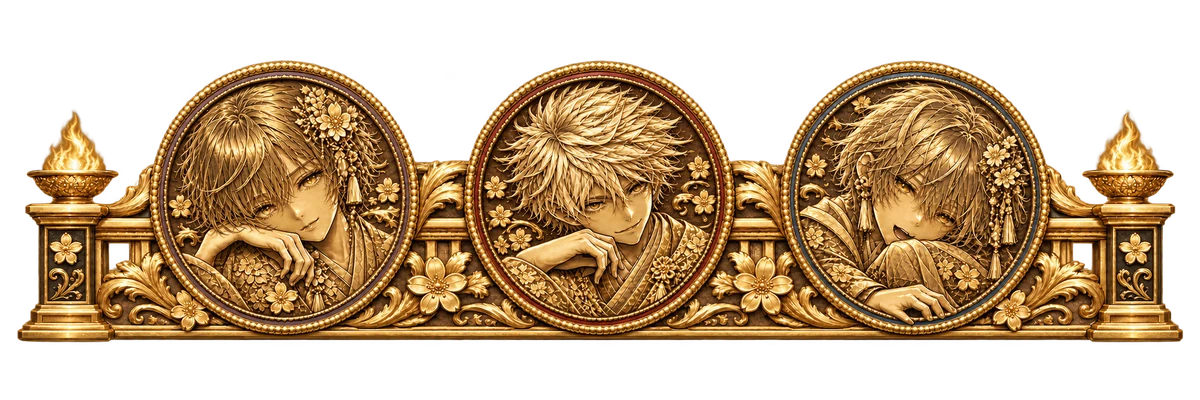
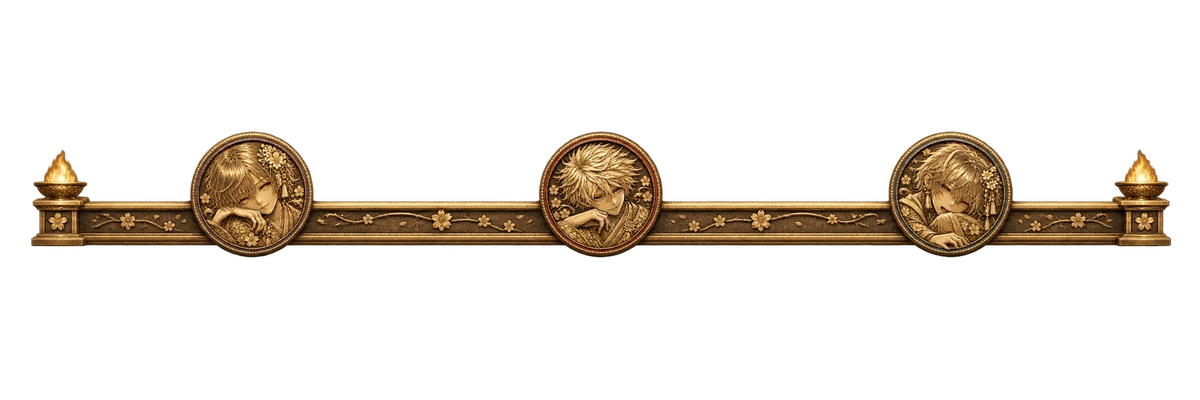
軌跡の筐体を黒金へ揃え三神とリールを一体化

diff --git a/src/web/public/kiseki-trial.css b/src/web/public/kiseki-trial.css
@@ -11,23 +11,72 @@
 
 /* 軌跡だけの風景と、液晶下端の金の肖像メダル。背景の選択は公開済みG数だけ。 */
 .kt-root .gt-display{aspect-ratio:1/1.04}
-.kt-machine:not([data-landscape=special]) .gt-landscape{height:79%;object-position:center;filter:none;opacity:1}
+.kt-machine:not([data-landscape=special]) .gt-landscape{height:100%;object-position:center;filter:none;opacity:1}
 .kt-machine:not([data-landscape=special]) .gt-scene-depth{opacity:0}
 .kt-machine:not([data-landscape=special]) .gt-scene-light{background:linear-gradient(#06162642,transparent 20% 65%,#07131e22),linear-gradient(90deg,#07131e25,transparent 18% 82%,#07131e25)}
 .kt-root .gt-display .gt-lcd{justify-content:space-between;padding:32px 12px 4px}
 .kt-root .gt-display .gt-screen-mode{align-self:flex-start;max-width:100%;font-size:clamp(10px,2.5vw,16px);letter-spacing:2px;padding:2px 8px;border-left:2px solid #ffe7a0;color:#fff4d3;text-shadow:0 2px 2px #183137,0 0 6px #102731}
 .kt-root .gt-display .gt-digits{gap:clamp(12px,4vw,34px);margin:0;min-height:0}
 .kt-root .gt-display .gt-digits>span{font-family:Georgia,'Times New Roman',serif;font-weight:900;font-style:italic;font-size:clamp(58px,16vw,118px);color:#ffe89c;-webkit-text-stroke:1px #9f5a1d;text-shadow:0 -1px 0 #fff6cc,0 2px 0 #f5b749,0 4px 0 #8e4b14,0 6px 0 #4e2b19,2px 8px 5px #122027c9}
-.kt-root .gt-display .gt-message{padding:3px 10px;border-radius:3px;background:#07131e8c;color:#fff9e8;text-shadow:0 1px 2px #000;font-size:clamp(8px,1.8vw,11px)}
-.kt-altar{position:relative;isolation:isolate;flex:0 0 auto;aspect-ratio:4/1;width:100%;overflow:hidden;z-index:2;pointer-events:none}
+.kt-root .gt-display .gt-message{padding:3px 10px;border-radius:0;background:none;color:#fff9e8;text-shadow:0 1px 3px #07131e,0 0 4px #07131e;font-size:clamp(8px,1.8vw,11px)}
+.kt-reel-assembly{position:relative;isolation:isolate;flex:0 0 auto;width:94%;align-self:center;margin:0 auto 2%}
+.kt-reel-assembly:before{content:'';position:absolute;inset:35% 4% 0;z-index:-1;pointer-events:none;background:linear-gradient(90deg,#3b2816,#cfb16d 38%,#f3dea1 50%,#65502c) left/9px 100% no-repeat,linear-gradient(90deg,#65502c,#f3dea1 50%,#cfb16d 62%,#3b2816) right/9px 100% no-repeat,linear-gradient(#f4df9e,#9e7c40 30%,#342919 65%,#b4924b) bottom/100% 10px no-repeat;border-bottom:2px solid #3a2c19}
+.kt-altar{position:relative;isolation:isolate;aspect-ratio:5.6/1;width:100%;margin-bottom:-4%;overflow:visible;z-index:3;pointer-events:none}
 .kt-altar-art{position:absolute;width:100%;height:auto;left:0;top:50%;transform:translateY(-50%);pointer-events:none}
-.kt-root .gt-display .kt-medallion-navigation{position:absolute;inset:0 10%;width:80%;height:100%;min-height:0;max-height:none;margin:0;gap:0;z-index:1}
+.kt-root .gt-display .kt-medallion-navigation{position:absolute;inset:0 5%;width:90%;height:100%;min-height:0;max-height:none;margin:0;gap:0;z-index:1}
 .kt-root .gt-display .kt-medallion-navigation .gt-lcd-cue{justify-content:center;gap:0}
-.kt-root .gt-display .kt-medallion-navigation .gt-lcd-cue:after{content:'';position:absolute;inset:18% 3%;border-radius:50%;background:radial-gradient(ellipse,#51310ad6,transparent 72%);z-index:-1}
-.kt-root .gt-display .kt-medallion-navigation .gt-lcd-cue b{font-size:clamp(30px,9vw,68px);letter-spacing:-2px;line-height:1;color:#fff2a9;-webkit-text-stroke:1px #714010;opacity:.9;text-shadow:0 2px 0 #a15e13,0 4px 0 #3c250d,0 0 6px #000}
+.kt-root .gt-display .kt-medallion-navigation .gt-lcd-cue:after{content:'';position:absolute;inset:12% 31%;border-radius:50%;background:radial-gradient(ellipse,#51310ad6,transparent 72%);z-index:-1}
+.kt-root .gt-display .kt-medallion-navigation .gt-lcd-cue b{font-size:clamp(26px,7.5vw,52px);letter-spacing:-2px;line-height:1;color:#fff2a9;-webkit-text-stroke:1px #714010;opacity:.9;text-shadow:0 2px 0 #a15e13,0 4px 0 #3c250d,0 0 6px #000}
 .kt-root .gt-display .kt-medallion-navigation .gt-lcd-cue small{font-size:clamp(6px,1.5vw,9px);line-height:1;min-height:7px;letter-spacing:2px;margin:1px 0 0}
 .kt-root .gt-display .kt-medallion-navigation .gt-lcd-cue.is-next b{color:#fff9de;opacity:1;text-shadow:0 2px 0 #ad6b22,0 4px 0 #3c250d,0 0 12px #fff4a8}
 .kt-root .gt-display .kt-medallion-navigation .gt-lcd-cue.is-stopped b,.kt-root .gt-display .kt-medallion-navigation .gt-lcd-cue.is-stopped small,.kt-root .gt-display .kt-medallion-navigation .gt-lcd-cue.is-stopped:after{opacity:0}
-.kt-root .gt-display .gt-reel-shelf{padding-bottom:4%}
+.kt-root .gt-display .kt-reel-assembly .gt-reel-shelf{padding:0 0 10px;z-index:2}
+.kt-root .gt-display .kt-reel-assembly .gt-reel-deck{--symbol-h:clamp(24px,8vw,50px);width:88%;max-width:none;padding:5px 6px 6px;border-radius:0;border:1px solid #b99a58;background:linear-gradient(120deg,#e1c487,#765b2c 15%,#3c301e 35%,#d9bb76 52%,#63502f 82%,#d6b36e);box-shadow:inset 0 1px 0 #ffedbd,0 1px 0 #312414,0 4px 5px #12201b88}
+.kt-root .gt-display .kt-reel-assembly .gt-symbol{background:linear-gradient(90deg,#99855e,#e8d7ad 9%,#fff7db 30% 65%,#d7c291 90%,#927b50)}
+.kt-root .gt-display .kt-reel-assembly .gt-reels{border-color:#5f4b2c;background:#251e14}
+.kt-root .gt-display .kt-reel-assembly .gt-reel-glass{background:linear-gradient(#33231170,transparent 30%,#fff7df14 48%,transparent 68%,#271d1266);box-shadow:inset 0 18px 17px -12px #211d16e0,inset 0 -18px 17px -12px #211d16e0}
+.kt-root .gt-display .kt-medallion-navigation .gt-lcd-cue i{width:62%;height:95%}
+.kt-root .gt-display .kt-medallion-navigation .gt-lcd-cue.is-next:before{inset:12% 20%}
 @media(max-width:620px){.kt-root .gt-display .gt-lcd{padding:27px 7px 3px}.kt-root .gt-display .gt-screen-mode{letter-spacing:1px;padding:1px 5px}.kt-root .gt-display .gt-message{padding:2px 6px}.kt-root .gt-display .gt-digits>span{font-size:clamp(52px,17vw,90px)}}
-@media(max-height:500px) and (min-width:600px){.kt-root[data-focus=true] .gt-display .gt-lcd{padding:23px 5px 0}.kt-root[data-focus=true] .gt-display .gt-digits>span{font-size:40px}.kt-root[data-focus=true] .kt-altar{aspect-ratio:4/1;width:min(100%,224px);height:56px;align-self:center}.kt-root[data-focus=true] .gt-display .kt-medallion-navigation{min-height:0;max-height:none;height:100%}.kt-root[data-focus=true] .gt-display .kt-medallion-navigation .gt-lcd-cue b{font-size:34px}}
+@media(max-height:500px) and (min-width:600px){.kt-root[data-focus=true] .gt-display .gt-lcd{padding:23px 5px 0}.kt-root[data-focus=true] .gt-display .gt-digits>span{font-size:40px}.kt-root[data-focus=true] .kt-reel-assembly{width:min(96%,330px);margin-bottom:2px}.kt-root[data-focus=true] .kt-altar{aspect-ratio:5.6/1;width:100%;height:auto;align-self:auto}.kt-root[data-focus=true] .gt-display .kt-reel-assembly .gt-reel-deck{--symbol-h:16px}.kt-root[data-focus=true] .gt-display .kt-reel-assembly .gt-reel-shelf{padding-bottom:6px}.kt-root[data-focus=true] .gt-display .kt-medallion-navigation{min-height:0;max-height:none;height:100%}.kt-root[data-focus=true] .gt-display .kt-medallion-navigation .gt-lcd-cue b{font-size:34px}}
+
+.kt-root .gt-display .kt-medallion-navigation .gt-lcd-cue small{display:none}
+
+/* 腰パネルも軌跡だけ、凱旋風の黒・深い赤・金の印刷ガラスへ。 */
+.kt-root .gt-apron,.kt-root[data-focus=true] .gt-apron{height:180px;border-width:5px;border-color:#242127;border-top-color:#a58a52;border-bottom-color:#08090d;border-radius:3px 3px 8px 8px;background:#16090d;box-shadow:0 0 0 1px #796039,inset 0 0 18px #000}
+.kt-root .gt-apron img{opacity:1;object-position:center}
+.kt-root .gt-apron:before{background:linear-gradient(112deg,#fff0dc0c,transparent 30% 73%,#fff2ca0d 73.4%,transparent 75%),linear-gradient(90deg,#08090b55,transparent 25% 75%,#08090b55);box-shadow:inset 0 0 18px #020306,inset 0 1px 1px #ffe7b74d}
+.kt-root .gt-apron:after{inset:4px;border-color:#ddbd715e;box-shadow:inset 0 0 6px #4d280c}
+.kt-root .gt-apron>div{gap:3px;padding:7px 0}
+.kt-root .gt-apron small{color:#e5c990;font-size:8px;letter-spacing:4px}
+.kt-root .gt-apron strong{font-size:clamp(72px,18vw,130px);line-height:.9;letter-spacing:-5px;-webkit-text-stroke:.7px #7e5018;color:#f2ca65;background:linear-gradient(#fff3c7 5%,#a86a20 26%,#fff1b1 44%,#e2a839 51%,#fff1b2 67%,#9b5c19 93%);background-clip:text;-webkit-background-clip:text;-webkit-text-fill-color:transparent;text-shadow:0 3px 0 #804b17,0 5px 0 #3b2010,0 7px 8px #0009;transform:skewX(-4deg)}
+.kt-root .gt-apron span{font-size:10px;color:#ecd6a0;letter-spacing:7px}
+.kt-root .gt-medal-tray{border-top-color:#9e8752;border-bottom-color:#090a0e;background:radial-gradient(circle,#6f654c 0 .65px,transparent .95px) 0 0/4px 4px,linear-gradient(#151518,#06080d 45%,#26262a);box-shadow:inset 0 5px 8px #000,0 1px 0 #6f6142}
+@media(max-width:620px){.kt-root .gt-apron,.kt-root[data-focus=true] .gt-apron{height:115px}.kt-root .gt-apron>div{gap:1px;padding:5px 0}.kt-root .gt-apron small{font-size:6px;letter-spacing:2px}.kt-root .gt-apron span{font-size:8px;letter-spacing:5px}}
+@media(max-height:500px) and (min-width:600px){.kt-root[data-focus=true] .gt-apron,.kt-root[data-focus=true] .gt-medal-tray{display:none}}
+
+/* 軌跡の外装。銘板・スピーカー・操作台・腰パネルを一続きの黒金フレームへ。 */
+.kt-root .kt-machine{padding:14px 18px 12px;border-radius:32px 32px 18px 18px;border-color:#c4a757;background:linear-gradient(90deg,#705925,#f7dc83 .7%,#9f8040 1.1%,#14171b 1.5%,#05070b 3%,#414044 3.8%,#090b10 5% 95%,#414044 96.2%,#05070b 97%,#14171b 98.5%,#9f8040 98.9%,#f7dc83 99.3%,#705925);box-shadow:0 0 0 2px #08090d,0 5px 0 #29272a,0 14px 30px #000b,inset 0 1px 1px #fff1bb}
+.kt-root .gt-cabinet-rails{inset:14px 6px 44px}.kt-root .gt-cabinet-rails i{width:4px;border-color:#b69a4c;background:linear-gradient(90deg,#48351c,#f8dd8e 40%,#fff4bf 52%,#88672e);box-shadow:inset 0 0 1px #fff5}
+.kt-root .gt-marquee{min-height:82px;padding:8px 80px 7px;margin-bottom:9px;border-radius:22px 22px 5px 5px;border-color:#39362f;border-top-color:#f6d889;background:linear-gradient(#60563b 0%,#d0b166 3%,#222328 6%,#080a0e 23% 90%,#302f32);box-shadow:inset 0 1px 0 #fff6c4,0 2px 0 #06070b;gap:3px;align-content:center}
+.kt-root .gt-marquee>span:not(.gt-speaker){font-size:6px;letter-spacing:3px;color:#d4be82;position:relative;z-index:2}
+.kt-root .gt-marquee .kt-cabinet-title{position:relative;isolation:isolate;display:flex;flex-direction:column;align-items:center;justify-content:center;justify-self:center;width:170px;padding:1px 0 2px;font:900 25px/.9 Georgia,serif;letter-spacing:0;color:#ffe5a4;text-shadow:0 1px 0 #b57820,0 2px 0 #573414,-1px 0 0 #fff1bd}
+.kt-cabinet-title:before,.kt-cabinet-title:after{content:'';position:absolute;z-index:-1;clip-path:polygon(0 0,100% 0,85% 100%,15% 100%)}
+.kt-cabinet-title:before{inset:-4px -19px -5px;background:linear-gradient(125deg,#f5dd99,#9c7033 30%,#ffeab2 52%,#69471e 80%,#d5b66e)}
+.kt-cabinet-title:after{inset:-2px -16px -3px;background:linear-gradient(110deg,#1c0b0b,#6f1519 35%,#9c2225 50%,#3c0c10 80%,#110a0e);box-shadow:inset 0 2px 8px #000}
+.kt-root .gt-marquee .kt-cabinet-title>span{display:block;font:inherit;color:inherit;letter-spacing:0}
+.kt-root .gt-marquee small{position:relative;z-index:2;font-size:7px;letter-spacing:1px;color:#c9bda1}
+.kt-root .gt-marquee .gt-speaker{top:21px;bottom:17px;width:24%;max-width:148px;border:2px solid #4d4434;border-top-color:#b3a17c;border-bottom-color:#12141a;border-radius:10px;background:radial-gradient(ellipse,#05070b 0 4px,#a68d56 4.6px 5.2px,#24242a 5.7px) 0 0/16px 12px,linear-gradient(#4b4741,#101116);box-shadow:inset 0 2px 5px #000,0 1px 0 #9b885b}
+.kt-root .gt-speaker-left{left:10px;transform:skewX(-12deg)}.kt-root .gt-speaker-right{right:10px;transform:skewX(12deg)}
+.kt-root .gt-console{position:relative;overflow:visible;margin:2px -9px 9px;padding:8px 0 11px;border:1px solid #504a3d;border-top:3px solid #aaa28a;border-bottom:8px solid #ac8745;border-radius:8px 8px 32px 32px;background:linear-gradient(175deg,#686866,#20232a 10%,#0a0d12 39%,#24282e 70%,#0a0d13);box-shadow:inset 0 1px 0 #f1e7cd,0 5px 0 #06080d,0 6px 0 #6e5c39}
+.kt-console-grip{position:absolute;z-index:2;top:15px;width:16%;height:34px;border:1px solid #3e3e41;border-top-color:#bdb8a9;border-bottom:6px solid #0a0c11;border-radius:10px 20px 16px 12px;background:linear-gradient(#787974,#2b3035 20%,#090d13 47% 76%,#343940 90%,#11141b);box-shadow:0 3px 4px #0009;pointer-events:none}
+.kt-console-grip-left{left:-7px;transform:skewY(5deg)}.kt-console-grip-right{right:-7px;transform:skewY(-5deg)}
+.kt-root .gt-console .gt-play{max-width:420px;grid-template-columns:65px 1fr;gap:13px;min-height:78px;padding:0 5px}
+.kt-root .gt-console .gt-stop-row{align-items:center;padding:7px 12px;border:1px solid #777264;border-top-color:#292e33;border-radius:999px;background:linear-gradient(125deg,#12161c,#3e454a 47%,#12161c);box-shadow:inset 0 2px 4px #000,0 1px 0 #d3c1a080}
+.kt-root .gt-console .gt-stop{width:56px;max-width:56px;min-height:48px;color:#f8dfd2}.kt-root .gt-console .gt-instruments{margin-top:5px;max-width:380px}
+.kt-root .gt-apron strong{font-size:clamp(104px,31vw,216px);line-height:.62;letter-spacing:-6px;-webkit-text-stroke:.7px #f9e3a1;text-shadow:none;filter:drop-shadow(0 2px 0 #ad6e20) drop-shadow(0 4px 0 #48250b) drop-shadow(0 6px 4px #000b);transform:scaleY(.82) skewX(-4deg)}
+.kt-root .gt-medal-tray{height:38px;border-radius:3px 3px 14px 14px}
+@media(max-width:620px){.kt-root .kt-machine{padding:10px 12px 9px;border-radius:24px 24px 15px 15px}.kt-root .gt-marquee{min-height:67px;padding:7px 49px 6px;margin-bottom:7px;border-radius:16px 16px 4px 4px;gap:2px}.kt-root .gt-marquee .kt-cabinet-title{width:115px;font-size:20px}.kt-cabinet-title:before{inset:-3px -13px -4px}.kt-cabinet-title:after{inset:-1px -10px -2px}.kt-root .gt-marquee>span:not(.gt-speaker){font-size:5px;letter-spacing:1.5px}.kt-root .gt-marquee small{font-size:6px;letter-spacing:0}.kt-root .gt-marquee .gt-speaker{top:19px;bottom:16px;width:22%;border-width:1px;background-size:12px 9px,auto}.kt-root .gt-speaker-left{left:5px}.kt-root .gt-speaker-right{right:5px}.kt-root .gt-console{margin:2px -6px 7px;padding:6px 0 8px;border-bottom-width:6px;border-radius:6px 6px 23px 23px}.kt-console-grip{top:14px;width:12%;height:25px;border-bottom-width:5px}.kt-console-grip-left{left:-5px}.kt-console-grip-right{right:-5px}.kt-root .gt-console .gt-play{max-width:calc(100% - 38px);grid-template-columns:44px 1fr;gap:6px;min-height:64px}.kt-root .gt-console .gt-stop-row{padding:5px 4px}.kt-root .gt-console .gt-stop{width:44px;max-width:44px;min-height:44px;font-size:8px}.kt-root .gt-console .gt-instruments{max-width:260px;margin-top:3px}.kt-root .gt-medal-tray{height:29px}}
+@media(max-height:500px) and (min-width:600px){.kt-root[data-focus=true] .gt-console{margin:4px -6px;padding:2px 8px 3px;border-bottom-width:3px}.kt-root[data-focus=true] .gt-console .gt-play{min-height:58px;max-width:300px;grid-template-columns:48px 1fr;gap:7px}.kt-root[data-focus=true] .kt-console-grip{display:none}.kt-root[data-focus=true] .gt-console .gt-stop-row{padding:3px 5px}.kt-root[data-focus=true] .gt-console .gt-stop{width:44px;max-width:44px;min-height:44px}.kt-root[data-focus=true] .gt-console .gt-instruments{margin-top:2px}}
+
+.kt-root .gt-marquee .kt-cabinet-title>span{position:relative;z-index:1}.kt-marquee-foil{position:absolute;z-index:0;left:-16px;top:-2px;width:calc(100% + 32px);height:calc(100% + 5px);object-fit:cover;object-position:center;opacity:.6;clip-path:polygon(0 0,100% 0,85% 100%,15% 100%);pointer-events:none}@media(max-width:620px){.kt-marquee-foil{left:-10px;top:-1px;width:calc(100% + 20px);height:calc(100% + 3px)}}

diff --git a/src/web/views/kisekiTrial.tsx b/src/web/views/kisekiTrial.tsx
@@ -30,16 +30,16 @@ export function KisekiTrial({m,session,error}:{m:View;session:AdminSession;error
  <dialog class="gt-preferences" id="gt-preferences" data-gt-preferences aria-labelledby="gt-preferences-title"><div class="gt-preferences-head"><h2 id="gt-preferences-title">表示と音の設定</h2><button type="button" data-gt-settings-close>閉じる</button></div><button type="button" data-gt-settings-audio aria-pressed="false">音：OFF</button><div class="gt-preferences-grid"><label>音量<select data-gt-volume><option value="0.3">小さめ</option><option value="0.65" selected>ふつう</option><option value="1">大きめ</option></select></label><label>演出<select data-gt-motion><option value="normal">通常</option><option value="low">控えめ</option><option value="instant">即表示</option></select></label><label>画質<select data-gt-quality><option value="auto">自動</option><option value="full">通常</option><option value="light">軽め</option></select></label><label>発光<select data-gt-glow><option value="0.35">控えめ</option><option value="0.7" selected>ふつう</option><option value="1">明るめ</option></select></label><label>映像の待ち時間<select data-gt-sync><option value="0">標準</option><option value="40">40ms</option><option value="80">80ms</option></select></label></div><p class="gt-preferences-note">表示と音はこの端末の設定です。軌跡の停止は自動補助し、演出を減らしても抽選・払出は変わりません。</p></dialog>
  <p class="gt-recovery" data-gt-recovery hidden role="status"><span data-gt-recovery-text/><a href={PATH}>最新の状態を確認</a><button type="button" data-gt-recovery-dismiss>閉じる</button></p>
  {own&&<><section class="gt-machine kt-machine" data-gt-machine-id={own.id} data-phase={own.phase} data-kiseki-phase={own.phase} data-landscape={scenic?landscape:'special'} data-scene={scene} data-spinning={String(own.spinning)} data-paid={own.lastPaid} data-spins={own.spins} data-timing="false" aria-label={`第${own.id}軌跡の操作画面`}>
- <div class="gt-cabinet-rails" aria-hidden="true"><i/><i/></div><div class="gt-marquee"><span class="gt-speaker gt-speaker-left" aria-hidden="true"/><span class="gt-speaker gt-speaker-right" aria-hidden="true"/><span>SAKURA · CELESTIAL ORBIT</span><b>軌 跡</b><small>{own.resumed?'本人の保存分を再開中':`第${own.id}軌跡 · 無料試遊`}</small></div>
+ <div class="gt-cabinet-rails" aria-hidden="true"><i/><i/></div><div class="gt-marquee"><span class="gt-speaker gt-speaker-left" aria-hidden="true"/><span class="gt-speaker gt-speaker-right" aria-hidden="true"/><span>SAKURA · CELESTIAL ORBIT</span><b class="kt-cabinet-title"><img class="kt-marquee-foil" src={assetUrl('kiseki-media-apron-1200.webp')} alt="" aria-hidden="true"/><span>GOD</span><span>GAME</span></b><small>軌跡 · {own.resumed?'本人の保存分を再開中':`第${own.id}軌跡 · 無料試遊`}</small></div>
  <div class="gt-display" aria-label="軌跡版の液晶と3リール"><img class="gt-landscape" src={assetUrl(scenic?`kiseki-media-${landscape}-800.webp`:`gaisen-media-${scene==='gg'?'award':'night'}-800.webp`)} srcSet={scenic?`${assetUrl(`kiseki-media-${landscape}-800.webp`)} 800w, ${assetUrl(`kiseki-media-${landscape}-1440.webp`)} 1440w`:undefined} sizes={scenic?"(max-width: 620px) 94vw, 660px":undefined} alt="" aria-hidden="true"/><div class="kt-cosmos" aria-hidden="true"><i/></div><div class="gt-scene-light" aria-hidden="true"/><div class="gt-scene-depth" aria-hidden="true"><i class="gt-scene-horizon"/><i class="gt-scene-orbit"/></div><div class="gt-transition-gates" aria-hidden="true"><i/><i/></div><div class="gt-win-flare" aria-hidden="true"/><div class="gt-normal-effects" aria-hidden="true"><i class="gt-normal-wind"/><i class="gt-normal-bolt"/><i class="gt-normal-glint"/><i class="gt-normal-shade"/><div class="gt-normal-doors"><i/><i/></div><span data-gt-normal-caption/></div>
  <div class="gt-lcd"><div class="gt-lcd-hud"><span>{own.phase==='zgame'?'黄7連続中':own.left===null?'通常累計':'残り'} <b>{own.phase==='zgame'?'∞':`${own.left??own.normalGames}G`}</b></span><span>SET <b>{['sgg','sgg-retry'].includes(own.phase)?own.sggSet:own.sets}</b></span><span>GG STOCK <b>{own.stocks}</b></span></div><p class="gt-screen-mode">{scenic?own.phase==='normal'?landscapeNames[landscape]:`${PHASE_NAMES[own.phase]} · ${landscapeNames[landscape]}`:PHASE_NAMES[own.phase]}</p>
  {own.winEvent?<div class="gt-lcd-award" data-gt-lcd-award data-kind={own.winEvent.kind} role="status"><small>{own.winEvent.kind==='god'?'神 降 臨':own.winEvent.kind==='sgg'?'SUPER GOD GAME':'獲得確定'}</small><strong>{own.winEvent.kind==='god'?'GOD':own.winEvent.kind==='sgg'?'SGG':own.winEvent.kind==='stock'?`＋${own.winEvent.added}`:'GOD GAME'}</strong><span>{own.winEvent.added>0?`＋${own.winEvent.added} SET`:`第${own.winEvent.set}セット`}</span></div>:<div class="gt-digits" aria-label="数字の演出画面">{[0,1,2].map(i=><span class={own.spinning&&!own.stopped.includes(i)?'gt-digit-spinning':''}>{own.spinning&&!own.stopped.includes(i)?<i class="gt-number-cycle" role="img" aria-label="数字が回転中">{['1','2','3','4','5','6','7','1'].map(n=><b aria-hidden="true">{n}</b>)}</i>:['2','4','6'][i]}</span>)}</div>}
  <strong class="gt-message" role="status">{own.message}</strong></div>
- <div class="kt-altar" aria-label={own.navi&&own.spinning?'メダルの押し順ナビ':undefined}><img class="kt-altar-art" src={assetUrl('kiseki-media-altar-1200.webp')} alt="" aria-hidden="true"/>{own.navi&&own.spinning&&<div class="gt-lcd-navigation kt-medallion-navigation" data-gt-lcd-navigation aria-label={'押し順ナビ：'+order.map(i=>['左','中','右'][i]).join('→')}>{[0,1,2].map(i=><span class={'gt-lcd-cue'+(own.stopped.includes(i)?' is-stopped':next===i?' is-next':'')} data-gt-lcd-position={i} data-gt-lcd-next={String(next===i)}><i aria-hidden="true"/><b>{order.indexOf(i)+1}</b><small>{next===i?'PUSH':''}</small></span>)}</div>}</div>
- <div class="gt-reel-shelf"><KisekiReels own={own}/></div></div>
- <div class="gt-console"><div class="gt-play"><p class="gt-operation-guide" data-gt-guide role="status">{own.spinning?`${['左','中','右'][next??0]}STOP${own.navi?'（押し順ナビ）':''}`:m.points<30?'ポイントを補充してください':'レバーで次のゲームへ'}</p><form class="gt-lever-form" method="post" action={PATH}>{fields(own.id,'lever')}<button class="gt-lever" data-gt-key="lever" disabled={own.spinning||m.points<30}><span class="gt-lever-hardware" aria-hidden="true"/>レバー<small>30ポイント</small></button></form><div class="gt-stop-row">{[0,1,2].map(i=><form method="post" action={PATH}>{fields(own.id,'stop')}<input type="hidden" name="index" value={i}/><button class={'gt-stop'+(next===i?' is-next':'')} data-gt-key={'stop-'+i} aria-label={['左','中','右'][i]+'STOP'} disabled={!own.spinning||own.stopped.includes(i)}><span class="gt-stop-lamp" aria-hidden="true"/>{['左','中','右'][i]}STOP</button></form>)}</div></div>
+ <div class="kt-reel-assembly"><div class="kt-altar" aria-label={own.navi&&own.spinning?'メダルの押し順ナビ':undefined}><img class="kt-altar-art" src={assetUrl('kiseki-media-altar-1200.webp')} alt="" aria-hidden="true"/>{own.navi&&own.spinning&&<div class="gt-lcd-navigation kt-medallion-navigation" data-gt-lcd-navigation aria-label={'押し順ナビ：'+order.map(i=>['左','中','右'][i]).join('→')}>{[0,1,2].map(i=><span class={'gt-lcd-cue'+(own.stopped.includes(i)?' is-stopped':next===i?' is-next':'')} data-gt-lcd-position={i} data-gt-lcd-next={String(next===i)}><i aria-hidden="true"/><b>{order.indexOf(i)+1}</b><small>{next===i?'PUSH':''}</small></span>)}</div>}</div>
+ <div class="gt-reel-shelf"><KisekiReels own={own}/></div></div></div>
+ <div class="gt-console"><span class="kt-console-grip kt-console-grip-left" aria-hidden="true"/><span class="kt-console-grip kt-console-grip-right" aria-hidden="true"/><div class="gt-play"><p class="gt-operation-guide" data-gt-guide role="status">{own.spinning?`${['左','中','右'][next??0]}STOP${own.navi?'（押し順ナビ）':''}`:m.points<30?'ポイントを補充してください':'レバーで次のゲームへ'}</p><form class="gt-lever-form" method="post" action={PATH}>{fields(own.id,'lever')}<button class="gt-lever" data-gt-key="lever" disabled={own.spinning||m.points<30}><span class="gt-lever-hardware" aria-hidden="true"/>レバー<small>30ポイント</small></button></form><div class="gt-stop-row">{[0,1,2].map(i=><form method="post" action={PATH}>{fields(own.id,'stop')}<input type="hidden" name="index" value={i}/><button class={'gt-stop'+(next===i?' is-next':'')} data-gt-key={'stop-'+i} aria-label={['左','中','右'][i]+'STOP'} disabled={!own.spinning||own.stopped.includes(i)}><span class="gt-stop-lamp" aria-hidden="true"/>{['左','中','右'][i]}STOP</button></form>)}</div></div>
  <div class="gt-instruments"><div><small>CREDIT · ポイント</small><b data-gt-credit>{fmt(m.points)}</b></div><div class="gt-bet-display"><small>1 GAME · BET</small><span class="gt-bet-lamps" aria-hidden="true"><i/><i/><i/></span><b>30<small>ポイント</small></b></div><div><small>PAYOUT · ポイント</small><b data-gt-payout>{fmt(own.lastPaid)}</b></div></div><p class="gt-key-hint">Spaceでレバー · 1 / 2 / 3で左 / 中 / 右STOP</p></div>
- <div class="gt-apron" aria-hidden="true"><img src={assetUrl('gaisen-media-award-800.webp')} alt="" loading="lazy"/><div><small>SAKURA · CELESTIAL ORBIT</small><strong>GOD</strong><span>軌 跡</span></div><i class="gt-keyhole"/></div><div class="gt-medal-tray" aria-hidden="true"><i/><i/><i/></div></section>
+ <div class="gt-apron" aria-hidden="true"><img src={assetUrl('kiseki-media-apron-1200.webp')} alt="" loading="lazy"/><div><small>SAKURA · CELESTIAL ORBIT</small><strong>GOD</strong><span>軌 跡</span></div><i class="gt-keyhole"/></div><div class="gt-medal-tray" aria-hidden="true"><i/><i/><i/></div></section>
  <section class="gt-session-tools" aria-label="軌跡の管理と記録"><div class="gt-meters"><span>区間 <b>{PHASE_NAMES[own.phase]}</b></span><span>SGG <b>{own.sggSet}セット / 継続ストック{own.sggStocks}</b></span><span>Z黄7連 <b>{own.zRun}</b></span></div><WinResult event={own.winEvent}/><p class="kt-result" data-gt-settlement role="status">{own.spinning?'STOPで結果を確定':own.lastRole?`${ROLES[own.lastRole].name} · ${own.lastReplay?'リプレイ・30ポイント返却':`払出${own.lastPaid}ポイント`}${own.lastCorrect?'':'・押し順不一致'}`:'レバーで次のゲームへ'}</p><div class="gt-bottom"><span>今回の戻り <b>{fmt(own.lastPaid)}</b>ポイント · 特別区間の差引 {fmt(own.chainWon)}</span><form method="post" action={PATH}>{fields(own.id,'leave')}<button disabled={own.spinning&&own.phase==='normal'}>離席して進捗を保存</button></form><form method="post" action={PATH}>{fields(own.id,'refill')}<button disabled={own.spinning}>軌跡の試遊10万ポイント補充</button></form></div><p class="gt-caption">通常は操作から10分、特別区間は1時間保護。閲覧では延長しません。</p><details class="gt-scenes"><summary>軌跡の場面を選んで動作確認</summary><p>試遊状態と当日グラフを入れ替えます。自然抽選とは別の確認です。</p><div>{SCENARIOS.map(name=><form method="post" action={PATH}>{fields(own.id,'scenario')}<input type="hidden" name="scenario" value={name}/><button disabled={own.spinning||own.resumed}>{SCENES[name]}</button></form>)}</div></details><details><summary>あなたの軌跡の試遊履歴</summary><ol class="gt-history">{own.history.map(h=><li>{h}</li>)}</ol></details></section>{floor}<GaisenWinStage preview={false}/></>}
  <details class="gt-rules"><summary>軌跡版の仕様・未再現部分</summary><p>通常時の泉・庭園・遺跡は通常G数に応じた風景です。内部モードや当選期待度を示すものではありません。ガイアは庭園、特別区間は専用の背景です。金の肖像メダルに表示される数字は、公開済みの押し順ナビだけです。</p><p>GG50G、PGG基本4セット、赤7は15枚役でSGGへ。SGGは10〜100Gと3G引き戻し、5の倍数セットは優遇。SPは赤7・赤7・GODの15枚役、通常/GG中は1/2でGG1ストックと80%ループ。ガイアとZ-ZONE/Z-GAMEも独立した区間です。1枚相当10ポイント、BET30ポイント。画像・音・リール配列は独自です。</p><p>通常のモード移行/当選・前兆8G・ガイアへの規定回数と移行率・PGG/赤7のループ振分・押し順外しの扱いは試遊用の暫定規則です。実機の勝率・機械割や純増を保証しません。GOD等が割り込んだ場合は元の区間を保留して再開します。有利区間上限/区間切れ・全演出・ゼウスモード・遅れて告知するG-ZONE引き戻しは未再現です。</p></details>
  </div></Layout>;

diff --git a/src/changelog.ts b/src/changelog.ts
@@ -30,6 +30,7 @@ export type ChangelogEntry = {
 };
 
 export const CHANGELOG: ChangelogEntry[] = [
+  {id:'2026-11-05-kiseki-integrated-reels',date:'2026-11-05',kind:'improve',where:['社務所Web'],title:'軌跡の筐体とリールを黒金の一体デザインへ',items:['三神を小さな金のメダルにし、リール列の上へ位置を揃えました。','背景を下まで続け、広いリールと金の側枠・土台へつなげました。白い面と装飾の強さを抑えています。','銘板・スピーカー・操作台・大きなGODの腰パネル・受け皿を、軌跡だけ凱旋風の黒金へ揃えました。','通常時の肖像と、公開済みの押し順ナビはそのままです。抽選・払出・保存・凱旋版は変わりません。'],announcement:{priority:'none',audience:'運営の無料試遊担当',steps:['社務所Web→カジノ管理→神殿スロット・軌跡版の無料試遊を再読み込みする。','通常時と押し順ナビ、スマホの縦/横・集中表示を確認する。'],postText:'',imagePrompt:'軌跡の通常画面とメダル上のナビ、金枠と大きいリールの一体感を実画面で撮影。実機画像は転載しない。',notes:'一般公開・銭接続は保留。'}},
   {id:'2026-11-05-kiseki-landscape-lcd',date:'2026-11-05',kind:'improve',where:['社務所Web'],title:'軌跡版の液晶に神話の風景と三神のメダルを追加',items:['泉・庭園・遺跡の独自生成背景と、赤・紫・青の三神の金の肖像メダルを追加しました。','押し順ナビは液晶下部のメダルに重ね、停止後は肖像へ戻ります。','風景は通常G数に応じた装飾です。抽選・払出・凱旋版の画面は変わりません。'],announcement:{priority:'none',audience:'運営の無料試遊担当',steps:['社務所Web→カジノ管理→神殿スロット・軌跡版の無料試遊を開く。','通常時の風景と、押し順ナビが出たときの三神のメダルを確認する。'],postText:'',imagePrompt:'軌跡版の泉・庭園・遺跡と三神のメダルを実画面で撮影。実機画像は転載しない。',notes:'運営限定の無料試遊。一般公開・銭接続は保留。風景で内部モードや当選期待度を示さない。'}},
   {id:'2026-11-05-kiseki-separate-trial',date:'2026-11-05',kind:'new',where:['社務所Web'],title:'凱旋を残し、神殿スロットの軌跡版を別台で追加',items:['軌跡専用の5台・無料試遊ポイント・本人保存・設定・集計を追加しました。凱旋の進捗はそのままです。','GG50G・PGG基本4セット・セット制SGG・ガイア・Z-ZONE/Z-GAMEと専用の配列表/停止形を確認できます。','独自素材の筐体・音・スマホ操作を共用します。未照合の抽選は試遊用として明記し、一般公開・銭接続は保留です。'],announcement:{priority:'none',audience:'運営の無料試遊担当',steps:['社務所Web→カジノ管理→神殿スロット・軌跡版の無料試遊を開く。','空席に着席し、通常は左から/ナビ時は順番優先でSTOPする。場面確認からGG/PGG/SGG/ガイア/Z系を試せる。','配列・打ち方は別タブ。離席すると特別区間を本人用に保存し、軌跡の別台で再開できる。'],postText:'',imagePrompt:'軌跡版と凱旋版の別入口、軌跡のGG50G/PGG/SGG/Z系の実画面を撮影。実機の画像/音を転載しない。',notes:'運営限定・銭非接続。実機同等の機械割や実端末の打感は保証しない。'}},
   { id: '2026-11-05-relay-decode-recover', date: '2026-11-05', kind: 'fix', where: ['Discord'], title: '🎙 音声中継が「変換器に異常」ですぐ止まるのを直した', items: ['登壇者の音声に、読めないパケットが 1 つ混ざっただけで「受信音声の変換器に異常が起きたため停止しました」と止まることがありました。', '読めないパケットはその部分だけ飛ばして続けます。変換器を初期化できないときも作り直して続けます。同じ登壇者で 50 回続けて失敗したときだけ止めます。'], announcement: { priority: 'none', audience: '運営', steps: [], postText: '', imagePrompt: '', notes: '' } },

diff --git a/docs/work-notes.md b/docs/work-notes.md
@@ -1,5 +1,16 @@
 # 作業の引き継ぎメモ
 
+## 2026年11月5日：三神とリールを背景になじませる
+- 最終ブラウザー：Chromium/WebKitで三風景/ガイア/PGG/SGG、正逆ナビ・各リールとメダル列の位置揃え・途中再読込・150P・320/390/844/1440pxの44px操作・集中/OS低減・財布不変が成功。新しい透過素材のalpha実測値を使い、集中表示で顔が切れないことも確認。JS/HTTPエラー0、実端末未接続。上部銘板/腰パネルを含む最終実画面5点をdocs/previews/kiseki-integrated-*.webpへ保存。型・関連24件も成功。以後はコード/画像を固定してビルドと全件を確認する。
+- 実装：細い上枠の透過素材（altar-integrated.png→既存altar-1200.webpを更新）と深赤/金の腰パネル背景（apron.png/apron-1200.webp）を生成。元PNGは比較用に維持。メダル/リールをkt-reel-assemblyでまとめて列位置を合わせ、下まで背景を連続、リール面を広く暖色へ。筐体は軌跡だけ、赤金のGOD GAME銘板/広いスピーカー/左右グリップ/黒金操作台/大きい発光GOD腰パネル/メッシュ受け皿へ統一。機能/抽選/保存/凱旋ソースは未変更。
+- 途中検証：関連4ファイル24件成功（29.59秒）、初回の型成功。Chromiumで3風景/ガイア/PGG/SGG/正逆ナビ/位置揃え/途中再読込/150P/4幅44px/集中/OS低減/財布不変が成功。新しい上部銘板の飾り画像追加後の最終型・両ブラウザー・ビルド/全件を確認し、Draft PRまで保存する。
+- 追加の筐体参考：「こんな感じにして」と凱旋風の筐体全体画像を受領。軌跡だけを対象に、薄い黒金フレーム・上部左右スピーカー/赤金銘板・一体液晶・張り出す黒金操作台/左右グリップ・赤3STOP・大きいGOD腰パネル・下部メッシュ/受け皿まで構成を揃える。三神は本人の人物配置を維持し、独自素材/文字で制作する。機械の画像やMILLION GODロゴをそのまま貼る形にはしない。
+- 追加採用：「パネルの下部とかもだけど 凱旋にパネルも併せていいよね」。対象を確認し「軌跡版の下部パネルを凱旋風に揃える」と回答。凱旋版は変更せず、軌跡の腰パネルと受け皿まで黒/深い赤/金の素材と枠へ揃える。独自のGOD文字をHTMLで重ね、実機ロゴは転載しない。
+- 依頼：「もっとなじむようにしたい」「こんな感じ」。通常50Gの庭園/三神が出た本人画面と、金枠・小さいメダル・大きいリールが一体になった実台の参考画像を受領。
+- 現在地：最新の本人画像でPR144の本番表示反映を確認できた。旧46G画像の未反映の原因自体は未確定だが、入口/ドメインの確認は不要となった。前の調査記録はcodex/kiseki-landscape-lcdの37c8f2aに保存済み。PR144はf7b1007で合流済み。
+- 方針：三神を小さく控えめな金のメダルにし、リール列の位置へ揃える。横長の独立パネル感をなくし、金の上枠/側枠/土台とリールを一体化。背景は下まで続け、リールを広げ、紙のような白さを抑える。人物は左紫/中央白髪赤/右青のまま、ナビは公開された順番のみを重ねる。実機画像/ロゴの転載や抽選/払出/保存/凱旋の変更はしない。一般公開/銭接続/新規合流は保留。
+- 次：独自の細いメダル装飾を生成→液晶の構図と金枠を調整→通常/ナビ/低減/スマホ/保存復帰の表示確認→型/全件/ビルド→Draft PR。開始枝codex/kiseki-reel-integratedは最新本番から作成。
+
 ## 2026年11月5日：PR144の合流
 - 依頼：「合流して」。CodexがPR144（軌跡の三風景・金の三神メダル）を検証後にGitHubから合流する。一般公開・銭接続の保留は維持。
 - 開始：codex/kiseki-landscape-lcd、caf397b、作業ツリー変更なし。本番をfetchし、PR/CI/レビュー/競合を確認する。前節の型・ビルド・全2,746ケースの確認とブラウザー結果は同じ実装e555995に対するもの。

diff --git a/docs/user-decisions.md b/docs/user-decisions.md
@@ -1,5 +1,10 @@
 # 作業ルールと神符合戦の決定事項
 
+## 2026年11月5日：三神・金枠・リールを一体化
+- 筺体全体の参考画像を採用し、軌跡の上部銘板/左右スピーカー、細い黒金枠、張り出す操作台/左右グリップ、赤3STOP、大きいGOD腰パネル、下部メッシュと受け皿まで統一する。凱旋版は維持。
+- 下部の追加対象は「軌跡版の下部パネルを凱旋風に揃える」。凱旋版そのもののパネルは変更しない。軌跡の腰パネル/受け皿を黒・深い赤・金の素材に揃える。
+- 本人の新しい画像で三神の通常表示を確認。「もっとなじむように」「こんな感じ」の参考画像に合わせ、三神を小さくしてリール列と位置を揃え、金枠と土台へつなげる。背景の下端の切れと独立した横長パネル感を減らし、リールを広げて控えめな金/ブロンズへ。人物の左紫/中央赤/右青は維持。一般公開/銭接続/新規合流は保留。
+
 ## 2026年11月5日：PR144の合流を許可
 - 「合流して」により、CodexがPR144（軌跡版の風景と金の三神メダル）を検証後にGitHubのPRから合流する。一般公開・銭接続は引き続き保留。
 

diff --git a/docs/admin.md b/docs/admin.md
@@ -2606,3 +2606,5 @@ JavaScriptの操作では、保存後の結果画面をPOSTの応答で直接受
 ### 軌跡版の液晶の風景
 
 神殿スロット・軌跡版の無料試遊には、泉・庭園・遺跡の風景と三神の金の肖像メダルがあります。通常G数40Gごとに風景が変わりますが、内部モードや当選期待度を示すものではありません。押し順ナビは左・中・右のメダルに重なり、停止した位置から肖像へ戻ります。STOPボタンと3リールの操作は同じです。独自素材で、凱旋版はそのままです。一般公開と銭接続は保留しています。
+
+軌跡版の三神メダルはリール列の上に小さく配置し、金の枠と土台をつなげています。リールの幅と陰影を調整した見た目の変更で、操作・抽選・払出は同じです。

diff --git a/assets/kiseki-lcd-source/README.md b/assets/kiseki-lcd-source/README.md
@@ -3,3 +3,5 @@
 2026年11月5日。image_genで独自生成。spring/garden/ruins.pngは泉・庭園・遺跡の背景。altar.pngは本人提供の三神を参考にした金/ブロンズ主体の透過装飾です。左が紫髪、中央が白髪/赤、右が青髪の人物。識別色は縁だけに抑えています。実機の画像・ロゴは転載していません。
 
 配信用はsrc/web/public/kiseki-mediaのWebP。背景800/1440px、装飾1200px。PNGは比較と再変換用に保存します。
+
+追加：altar-integrated.pngは小さい三神をリール列へ揃えた細い金の上枠（配信用altar-1200.webpの現行元）。apron.pngは文字を含まない黒/深い赤/金の腰パネル背景（配信用apron-1200.webp）。旧altar.pngは比較用に残します。GODの文字はHTMLで独自に重ねます。
